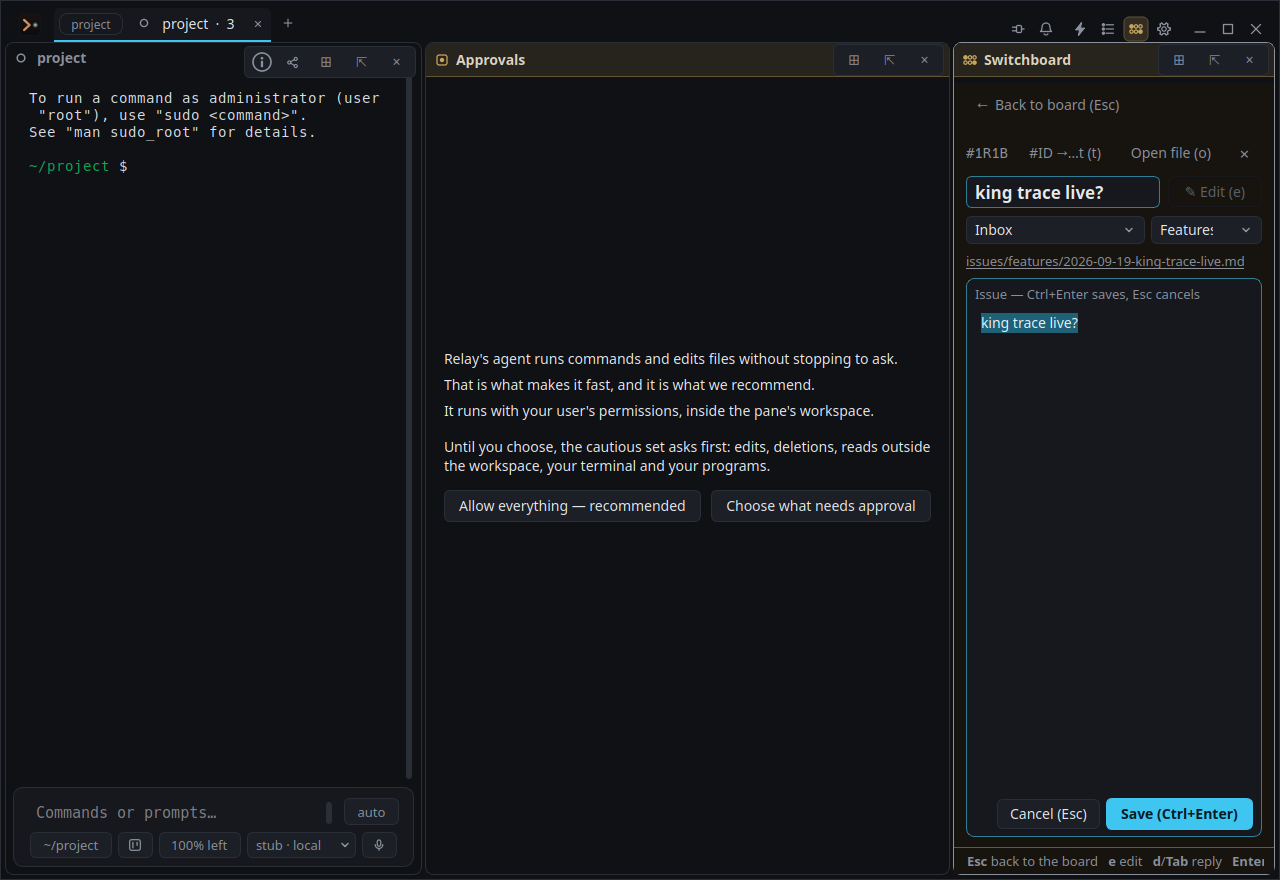
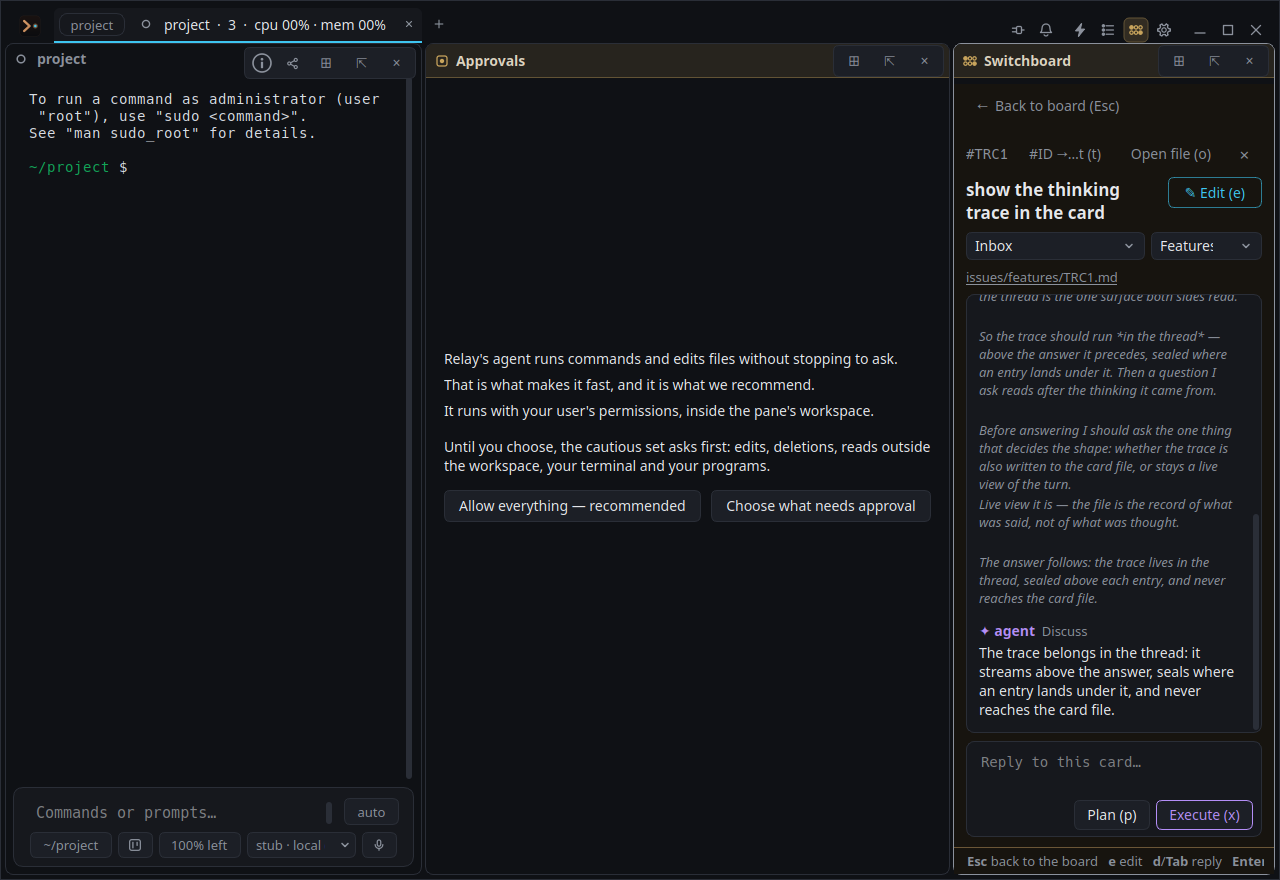
The thinking-trace evidence as the final run produced it, and the shim revert (#9K5H)
The tree sweeps (8147cc55 and its neighbours) carried this card's in-flight
code, test and protocol note onto main, and with them the FIRST run's
evidence: the drive script whose keystrokes landed in the board's quick-add,
the stub whose tool call used the wrong parameter name, and that run's
screenshots. This lands the run that actually exercised the feature - a
filter-safe mouse path, board_comment(id:...), the question sealed above the
mid-turn entry, the Plan turn's trace while it plans - plus the README
commit's missing siblings, and reverts the reorder-visibility shim the sweep
swept up (a local build unblock for another session's in-progress test,
never meant for main).

Implemented-By: glm/glm-5.3

diff --git a/docs/qa_evidence/2026-09-19-switchboard-card-thinking-trace/stub-provider.py b/docs/qa_evidence/2026-09-19-switchboard-card-thinking-trace/stub-provider.py
@@ -78,6 +78,24 @@ def first_user(request):
     return ""
 
 
+def turn_view(request):
+    """The last user message and the tool results that followed it: one card's conversation is
+    reused across turns (protocol 19.4), so the whole history cannot be counted per turn."""
+    messages = request.get("messages") or []
+    last = -1
+    for i, m in enumerate(messages):
+        if m.get("role") == "user":
+            last = i
+    tail = messages[last + 1:] if last >= 0 else []
+    text = ""
+    if last >= 0:
+        content = messages[last].get("content")
+        if isinstance(content, list):
+            content = " ".join(p.get("text", "") for p in content if isinstance(p, dict))
+        text = content or ""
+    return text, [m for m in tail if m.get("role") == "tool"]
+
+
 def hash_of(request):
     for m in reversed(request.get("messages") or []):
         if m.get("role") == "tool":
@@ -88,14 +106,13 @@ def hash_of(request):
 
 
 def body(request):
-    tools = [m for m in request.get("messages") or [] if m.get("role") == "tool"]
-    text = first_user(request)
+    text, tools = turn_view(request)
     if "Discuss** turn" in text:
         if not tools:
             return {"reasoning": DISCUSS_FIRST,
                     "call": call("board_comment", {
-                        "card": "TRC1", "kind": "question",
-                        "text": "Should the thinking trace also be written to the card file, "
+                        "id": "TRC1", "kind": "question",
+                        "text": "1. Should the thinking trace also be written to the card file, "
                                 "or stay a live view of the running turn? I recommend the live "
                                 "view: the file is the record of what was said, not what was "
                                 "thought."})}

diff --git a/src/BoardPane.h b/src/BoardPane.h
@@ -183,9 +183,7 @@ private:
     void watchIssues();
     void showProblems(const QJsonArray &problems);
     void step(int delta);                  // Up/Down, across section breaks
-public: // TEMP-SHIM-9K5H (revert before land.py commit; unblocks boardfilter's in-progress test)
     void reorder(int delta);               // Alt+Shift+Up/Down, inside the section
-private:
     void shiftSection(int delta);          // Alt+Shift+Left/Right, to the next status
     void foldSelected();                   // Left
     void unfoldNearest();                  // Right

diff --git a/docs/qa_evidence/2026-09-19-switchboard-card-thinking-trace/card-after.md b/docs/qa_evidence/2026-09-19-switchboard-card-thinking-trace/card-after.md
@@ -12,3 +12,8 @@ created: '2026-09-19'
 In switchboard cards — when discussing with the agent, and especially in plan mode, show
 the thinking traces same as in the terminals. The thinking should be in the thread in the
 card, so that the agent can ask questions and they read after the reasoning.
+
+## Plan
+1. Render the reasoning tail in the card's thread, under a `thinking…` header that settles to `thought for N s`.
+2. Seal the block above any thread entry that lands under it, so a question reads after the thinking it came from.
+3. Never write the trace to the card file.
